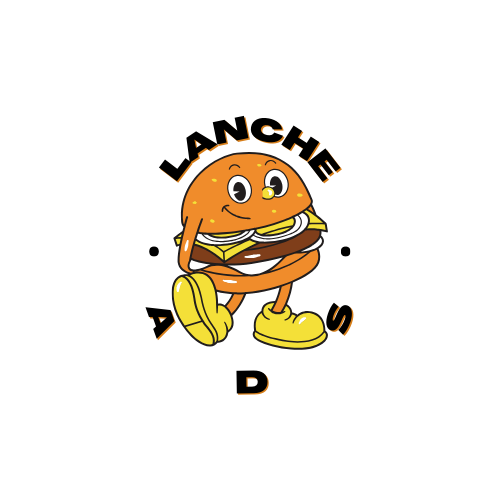
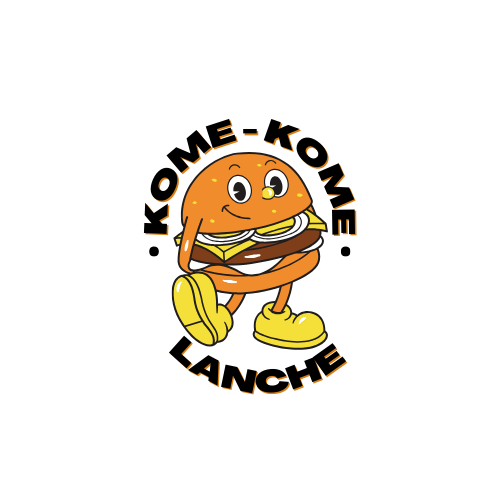
alteração na Tela_Historico

Changed region(s): [[0.27, 0.21, 0.72, 0.48], [0.33, 0.6, 0.72, 0.81], [0.27, 0.6, 0.36, 0.69]]

diff --git a/src/Tela_Home.java b/src/Tela_Home.java
@@ -1,8 +1,9 @@
+import java.awt.Color;
 import java.awt.Font;
+import java.awt.GridBagConstraints;
 import java.awt.GridBagLayout;
 import java.awt.event.ActionEvent;
 import java.awt.event.ActionListener;
-
 import javax.swing.ImageIcon;
 import javax.swing.JFrame;
 import javax.swing.JLabel;
@@ -15,7 +16,7 @@ public class Tela_Home implements ActionListener {
     
     Produto pro;
 
-    JFrame tela = new JFrame("Lanche ADS");
+    JFrame tela = new JFrame("Kome-Kome Lanche");
     JPanel painel = new JPanel(new GridBagLayout());
 
     JMenuBar mb = new JMenuBar();
@@ -26,56 +27,65 @@ public class Tela_Home implements ActionListener {
     JMenuItem historicoMenuItem = new JMenuItem("Histórico de Pedido");
     JMenu buscarMenu = new JMenu("Buscar");
 
-        void criarTela(){
-            tela.setSize(500,500);
-            tela.setLocation(500,150);
-            tela.setDefaultCloseOperation(JFrame.EXIT_ON_CLOSE);
+    void criarTela() {
+        tela.setSize(500, 500);
+        tela.setLocation(500, 150);
+        tela.setDefaultCloseOperation(JFrame.EXIT_ON_CLOSE);
+        tela.getContentPane().setBackground(new Color(47, 51, 53)); // Configura a cor de fundo do JFrame
 
-            mb.add(cadastrarMenu);
-            mb.add(pedidoMenu);
-            mb.add(buscarMenu);
+        mb.add(cadastrarMenu);
+        mb.add(pedidoMenu);
+        mb.add(buscarMenu);
 
-            cadastrarMenu.add(cadastrarProduto);
-            pedidoMenu.add(novoPedidoItem);
-            pedidoMenu.add(historicoMenuItem);
+        cadastrarMenu.add(cadastrarProduto);
+        pedidoMenu.add(novoPedidoItem);
+        pedidoMenu.add(historicoMenuItem);
 
-            cadastrarProduto.addActionListener(this);
-            novoPedidoItem.addActionListener(this);
+        cadastrarProduto.addActionListener(this);
+        novoPedidoItem.addActionListener(this);
+        historicoMenuItem.addActionListener(this);
 
-            tela.setJMenuBar(mb);
+        tela.setJMenuBar(mb);
 
-            String imagePath = "src/source/Lanche1.png";
-            ImageIcon icon = new ImageIcon(imagePath);
-            JLabel imgLabel = new JLabel(icon);
-            painel.add(imgLabel);
+        String imagePath = "src/source/Lanche.png";
+        ImageIcon icon = new ImageIcon(imagePath);
+        JLabel imgLabel = new JLabel(icon);
 
-            tela.add(painel);
-            tela.setVisible(true);
+        GridBagConstraints gbc = new GridBagConstraints();
+        gbc.gridx = 0;
+        gbc.gridy = 0;
+        gbc.anchor = GridBagConstraints.CENTER;
+        painel.add(imgLabel, gbc);
 
-            cadastrarMenu.setFont(new Font("Segoe UI", Font.BOLD, 14));
-            cadastrarProduto.setFont(new Font("Segoe UI", Font.BOLD, 14));
-            pedidoMenu.setFont(new Font("Segoe UI", Font.BOLD, 14));
-            novoPedidoItem.setFont(new Font("Segoe UI", Font.BOLD, 14));
-            historicoMenuItem.setFont(new Font("Segoe UI", Font.BOLD, 14));
-            buscarMenu.setFont(new Font("Segoe UI", Font.BOLD, 14));
-        }
-        
-        public static void main(String[] args) {
+        painel.setBackground(new Color(47, 51, 53)); // Configura a cor de fundo do painel
+        tela.add(painel);
+        tela.setVisible(true);
+
+        // Configura as fontes dos menus e itens de menu
+        cadastrarMenu.setFont(new Font("Segoe UI", Font.BOLD, 14));
+        cadastrarProduto.setFont(new Font("Segoe UI", Font.BOLD, 14));
+        pedidoMenu.setFont(new Font("Segoe UI", Font.BOLD, 14));
+        novoPedidoItem.setFont(new Font("Segoe UI", Font.BOLD, 14));
+        historicoMenuItem.setFont(new Font("Segoe UI", Font.BOLD, 14));
+        buscarMenu.setFont(new Font("Segoe UI", Font.BOLD, 14));
+    }
+
+    public static void main(String[] args) {
         Tela_Home tela1 = new Tela_Home();
         tela1.criarTela();
-        }
+    }
 
-        @Override
-        public void actionPerformed(ActionEvent e) {
-            if (e.getSource() == cadastrarProduto){
-                Tela_Cadasprod telacadas = new Tela_Cadasprod();
-                telacadas.setVisible(true);
-            } else if (e.getSource() == novoPedidoItem){
-                Tela_Novoped novopedido = new Tela_Novoped();
-                novopedido.setVisible(true);
-            } else if (e.getSource()== historicoMenuItem){
-                Tela_Historicoped historicoped = new Tela_Historicoped();
-                historicoped.setVisible(true);
-            }
-        }    
+    @Override
+    public void actionPerformed(ActionEvent e) {
+        if (e.getSource() == cadastrarProduto) {
+            Tela_Cadasprod telacadas = new Tela_Cadasprod();
+            telacadas.setVisible(true);
+        } else if (e.getSource() == novoPedidoItem) {
+            Tela_Novoped novopedido = new Tela_Novoped();
+            novopedido.setVisible(true);
+        } else if (e.getSource() == historicoMenuItem) {
+            Tela_Historicoped historicoped = new Tela_Historicoped();
+            historicoped.setVisible(true);
+        }
+    }
 }

diff --git a/src/Tela_Historicoped.java b/src/Tela_Historicoped.java
@@ -1,54 +1,83 @@
+import java.awt.Font;
 import java.awt.event.ActionEvent;
 import java.awt.event.ActionListener;
-
+import java.text.SimpleDateFormat;
+import java.util.Calendar;
+import java.util.Date;
+import java.util.GregorianCalendar;
+import javax.swing.JComboBox;
 import javax.swing.JFrame;
 import javax.swing.JLabel;
 import javax.swing.JPanel;
-import javax.swing.JTextField;
-import javax.swing.JComboBox;
-
-
 
 public class Tela_Historicoped extends JFrame implements ActionListener{
 
     JPanel painel = new JPanel();
 
-    JLabel lbtitulo = new JLabel("Últimos Pedidos");
-    JLabel lbcliente = new JLabel("Cliente");
-    JLabel lbdia = new JLabel("Dia");
-    JComboBox<String> cbopcao = new JComboBox<>();
-    JTextField txtcliente = new JTextField();
-
+    JLabel lbdia = new JLabel("DATA:");
+    JComboBox<String> cbData = new JComboBox<>();
+    JLabel txtcliente = new JLabel("Cliente:");
+    JLabel nomecliente = new JLabel("Kemerson Maciel");
+    JLabel txtpedido  = new JLabel("Pedido:");
+    JLabel quantpedido = new JLabel(" 2 ");
+    JLabel nomepedido = new JLabel("X-salada");
+    JLabel valorpedido = new JLabel("R$ 24,00");
 
     Tela_Historicoped(){
         setTitle("Histórico de Pedido");
-        setSize(340,450);
+        setSize(340, 450);
         setLocation(600, 150);
         setDefaultCloseOperation(JFrame.DISPOSE_ON_CLOSE);
 
-        painel.setLayout(null);
+        painel.setLayout(null); 
 
-        lbtitulo.setBounds(90, 15,150,30);
-        lbcliente.setBounds(30, 50, 80, 30);
-        txtcliente.setBounds(30, 80, 150, 30);
-        lbdia.setBounds(30, 120, 280, 30);
-        cbopcao.setBounds(30,150,150,30);
+        lbdia.setBounds(30, 10, 80, 30);
+        cbData.setBounds(70, 15, 150, 20);
 
-        painel.add(lbtitulo);
-        painel.add(lbcliente);
-        painel.add(txtcliente);
+        txtcliente.setBounds(15, 45, 80, 30);
+        txtcliente.setFont(new Font("Serif",Font.BOLD,16));
+        nomecliente.setBounds(45, 65, 150, 30);
+        nomecliente.setFont(new Font("Monospaced", Font.ITALIC, 15));
+        txtpedido.setBounds(15, 95, 80, 30);
+        txtpedido.setFont(new Font("Serif", Font.BOLD, 16));
+        quantpedido.setBounds(40, 120, 150, 30);
+        quantpedido.setFont(new Font("Monospaced", Font.ITALIC, 15));
+        nomepedido.setBounds(70, 120, 100, 30);
+        nomepedido.setFont(new Font("Monospaced", Font.ITALIC, 15));
+        valorpedido.setBounds(200, 120, 150, 30);
+        valorpedido.setFont(new Font("Monospaced", Font.ITALIC, 15));
+
         painel.add(lbdia);
-        painel.add(cbopcao);
+        painel.add(cbData);
+        painel.add(txtcliente);
+        painel.add(nomecliente);
+        painel.add(txtpedido);
+        painel.add(quantpedido);
+        painel.add(nomepedido);
+        painel.add(valorpedido);
 
         getContentPane().add(painel);
 
-        cbopcao.addItem("segunda-feira");
-        cbopcao.addItem("terça-feira");
-        cbopcao.addItem("quarta-feira");
-        cbopcao.addItem("quinta-feira");
-        cbopcao.addItem("sexta-feira");
-        cbopcao.addItem("sábado");
-        cbopcao.addItem("domingo");
+        populateDateComboBox();
+
+    }
+
+    private void populateDateComboBox() {
+        SimpleDateFormat sdf = new SimpleDateFormat("dd/MM/yyyy");
+        Calendar calendar = new GregorianCalendar();
+        calendar.set(Calendar.DAY_OF_YEAR, 1);
+        Date start = calendar.getTime();
+        
+        calendar.set(Calendar.DAY_OF_YEAR, calendar.getActualMaximum(Calendar.DAY_OF_YEAR));
+        Date end = calendar.getTime();
+        
+        Calendar current = new GregorianCalendar();
+        current.setTime(start);
+
+        while (current.getTime().before(end) || current.getTime().equals(end)) {
+            cbData.addItem(sdf.format(current.getTime()));
+            current.add(Calendar.DATE, 1);
+        }
     }
 
     public static void main(String[] args) {
@@ -58,8 +87,6 @@ public class Tela_Historicoped extends JFrame implements ActionListener{
     
     @Override
     public void actionPerformed(ActionEvent e) {
-        
-        throw new UnsupportedOperationException("Unimplemented method 'actionPerformed'");
+        // Implementar a lógica de ação aqui, se necessário.
     }
-    
 }
